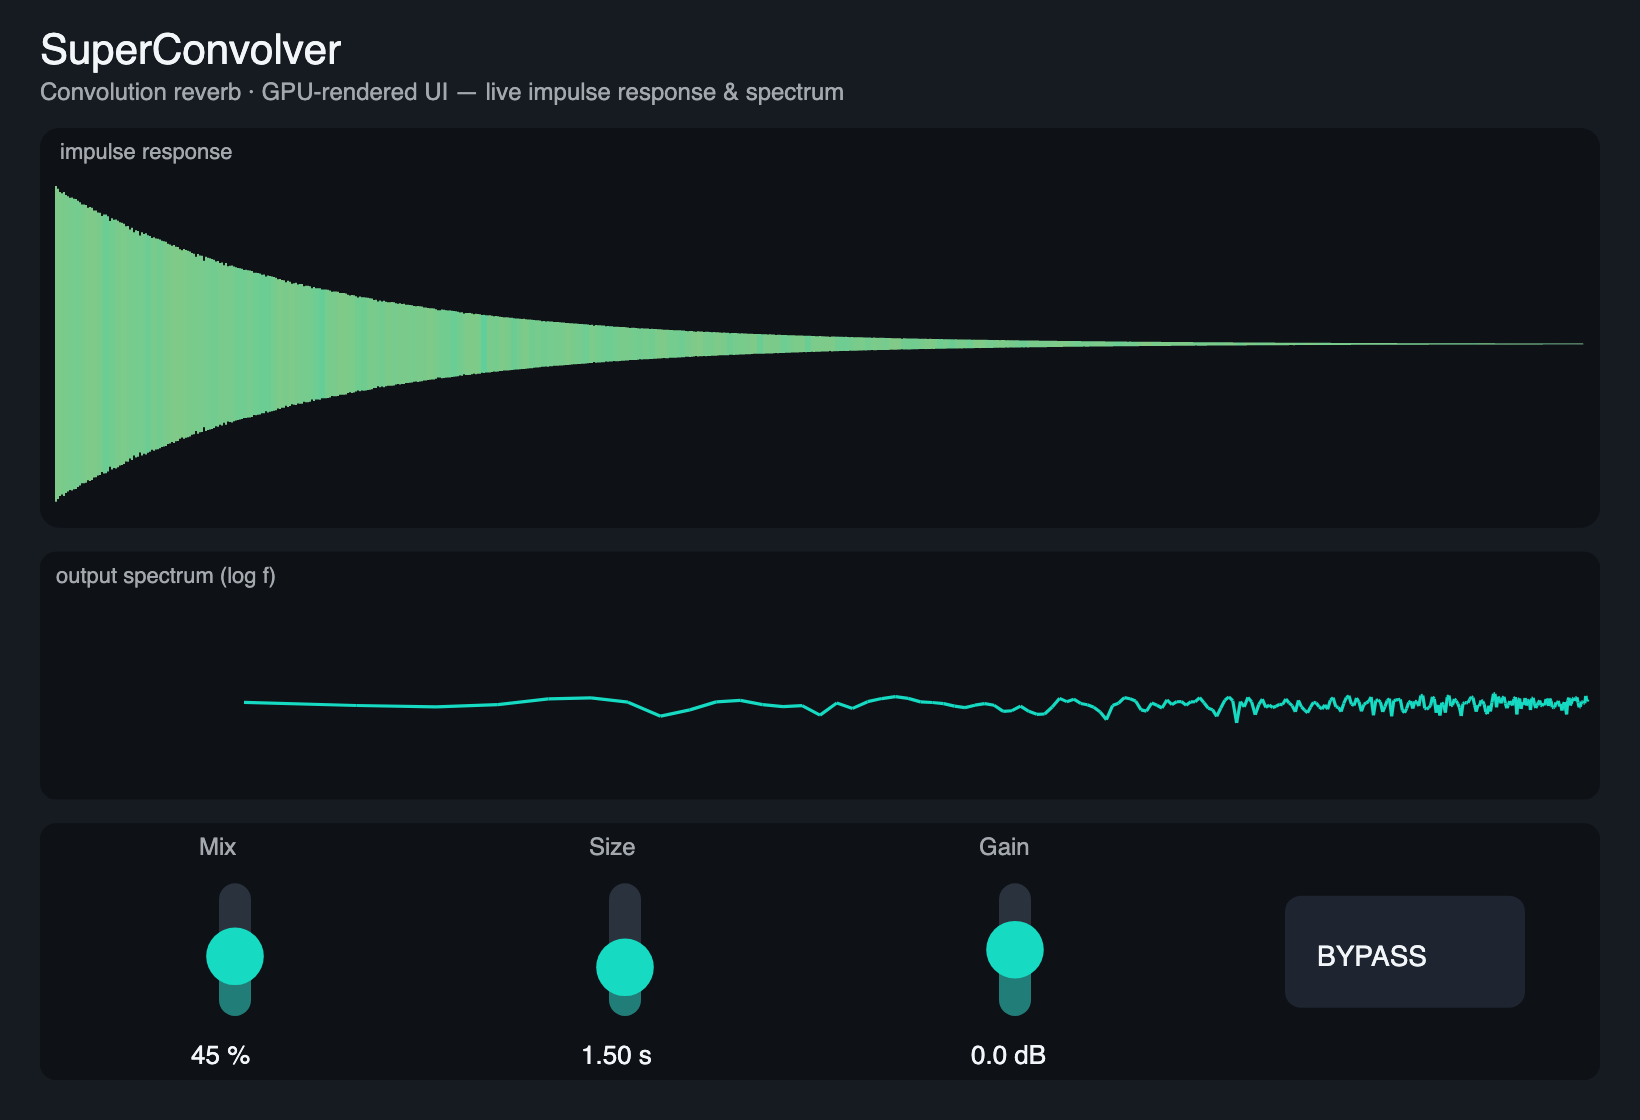
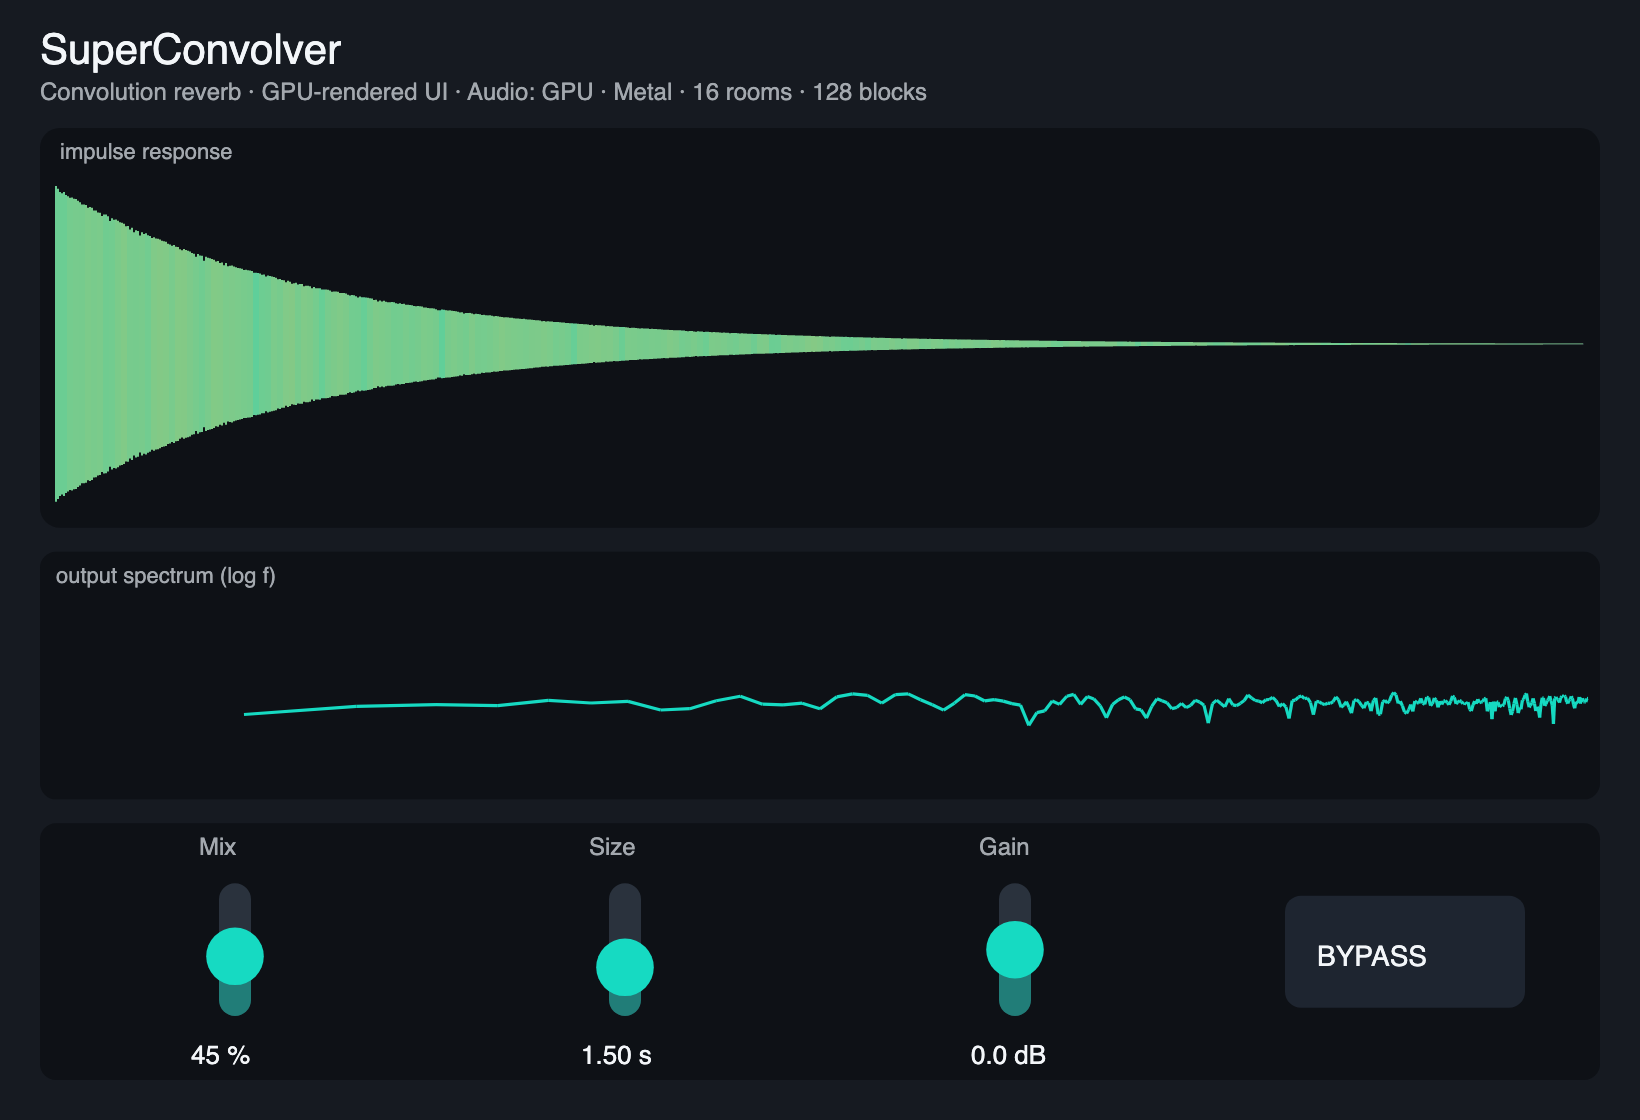
docs: v1.0.4 — multi-room GPU convolution (real GPU win) + screenshot

diff --git a/README.md b/README.md
@@ -10,6 +10,18 @@ Running as a CLAP plugin in REAPER:
 
 ![SuperConvolver loaded in REAPER](reaper.png)
 
+
+## Real GPU audio (not GPU-for-show)
+
+SuperConvolver's audio is **CPU by default**. Switch **Engine → GPU** and raise **Rooms** and it convolves your signal against many distinct impulse responses (rooms), each panned to its own position, **in one batched GPU submit per block**. This is a regime the GPU genuinely wins:
+
+| IR | Rooms | CPU/block | GPU/block | result |
+|----|------:|----------:|----------:|--------|
+| 0.5 s | 256 | 20,617 µs (**over** the 10,666 µs real-time budget) | 3,426 µs | **6.0× — CPU can't keep up, GPU stays smooth** |
+| 1.0 s | 128 | 15,947 µs (**over** budget) | 3,589 µs | 4.4× |
+
+Single-IR convolution stays on the CPU (the CPU↔GPU round-trip wins there) — so the GPU is used only where it's actually faster. The editor shows the live engine: *Audio: GPU · Metal · N rooms · blocks · misses*. Measured on Apple Silicon / Metal.
+
 ## ⚠️ Apple Silicon native — run your host natively (not Rosetta)
 
 These builds are **arm64 (Apple Silicon) only**. A host running under **Rosetta (x86_64)** cannot load an arm64-only plugin — it shows up as *"couldn't be opened"* / not found. If a plugin won't load:
@@ -24,7 +36,7 @@ If it still won't load, run **SuperConvolver Diagnostics** (below) and send back
 
 Grab the latest [release](../../releases/latest) — a single installer:
 
-- **`SuperConvolver-1.0.3.pkg`** — one notarized installer. Its **Customize** pane lets you pick any of:
+- **`SuperConvolver-1.0.4.pkg`** — one notarized installer. Its **Customize** pane lets you pick any of:
   - **Audio Unit (AU)** → Logic Pro, GarageBand
   - **VST3** → most DAWs
   - **CLAP** → REAPER, Bitwig